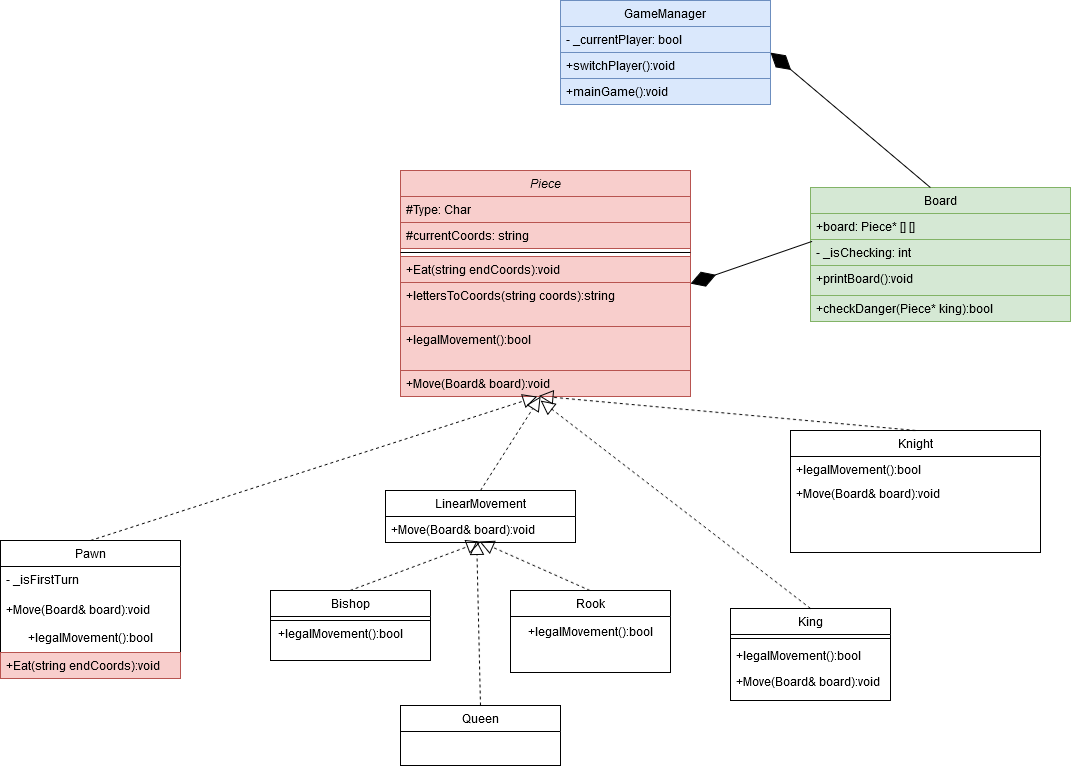
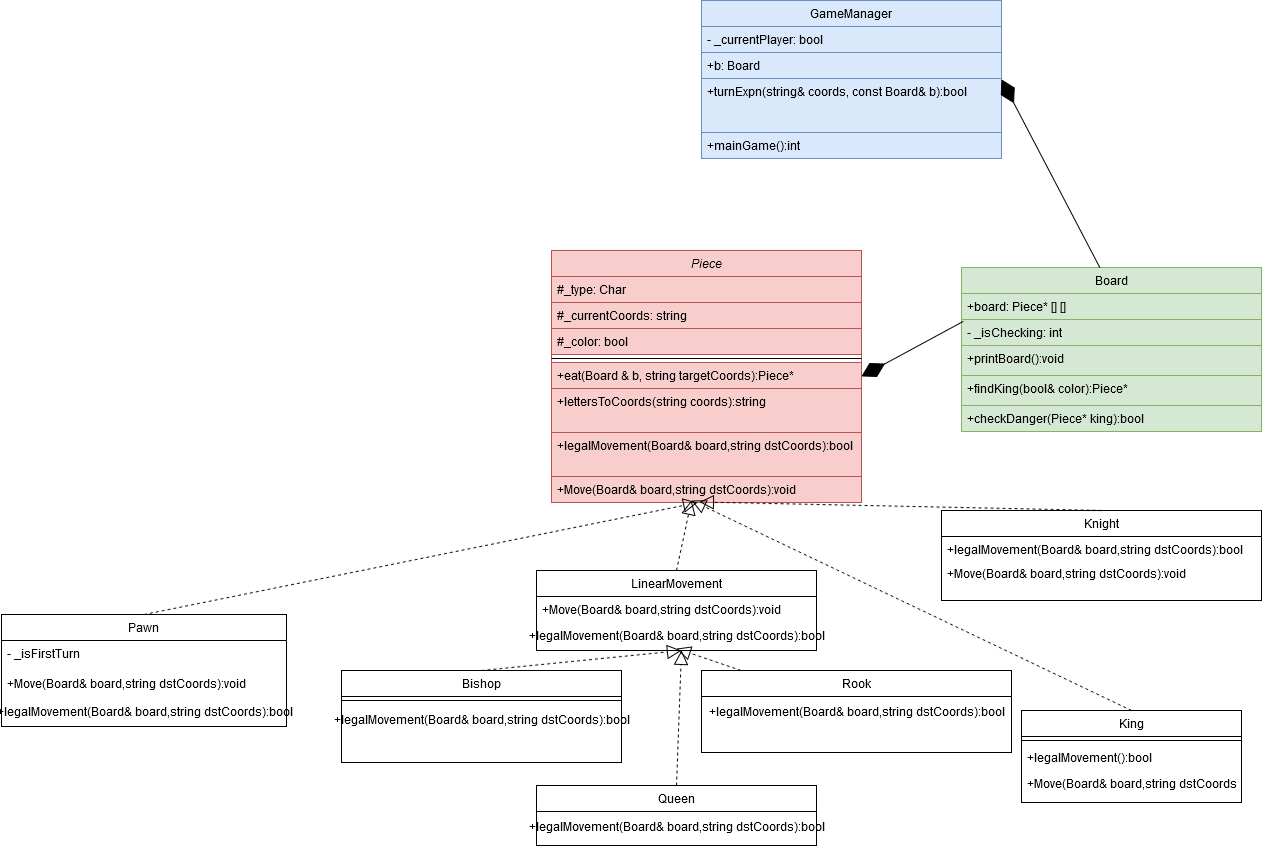
updated uml,added a few comments

diff --git a/chessMielAndTal/Board.h b/chessMielAndTal/Board.h
@@ -12,9 +12,13 @@ class Board
 private:
 	//function checks the rook/queen department
 	bool checkHorizonAndVert(const Piece* king, const int kingX, const int kingY);
+
 	bool pawnCheck(const Piece* king,const int kingX,const int kingY);
+	
 	bool knightCheck(const Piece* king,const int kingX,const int kingY);
+	
 	bool diagonalCheck(const Piece* king, const int kingX, const int kingY);
+	//checks if there is a possible check that could happen becuase of a king next to a king
 	bool kingDanger(const Piece* king, const int kingX, const int kingY);
 	
 public:
@@ -27,7 +31,5 @@ public:
 	Piece* findKing(const bool& color);
 	//checks danger for a king, returns true or false(checks for current king peice)
 	bool checkDanger(const Piece* king);
-	
-
 	
 };

diff --git a/chessMielAndTal/Piece.h b/chessMielAndTal/Piece.h
@@ -15,7 +15,7 @@ protected:
 public:
 	Piece(const char& type, const std::string& currentCoords);
 	virtual ~Piece();
-
+	//returns the eaten piece
 	Piece* eat(Board & b, const std::string & targetCoords);
 	//checks legal movement on board
 	virtual bool legalMovement(const Board& board, const std::string& dstCoords) const = 0;

diff --git a/chessMielAndTal/GameManager.cpp b/chessMielAndTal/GameManager.cpp
@@ -29,13 +29,6 @@ void GameManager::setCurrentPlayer(bool current)
 	_currentPlayer = current;
 }
 
-void GameManager::switchPlayer()
-{
-	if (!_currentPlayer)
-		_currentPlayer = true;
-	else
-		_currentPlayer = false;
-}
 
 
 int GameManager::mainGame(std::string inputCoords)

diff --git a/chessMielAndTal/GameManager.h b/chessMielAndTal/GameManager.h
@@ -14,6 +14,5 @@ public:
 	bool turnExpn(const std::string& coords, const Board& b);
 	bool getCurrentPlayer()const;
 	void setCurrentPlayer(bool current);
-	void switchPlayer();
 	int mainGame(std::string inputCoords);
 };
